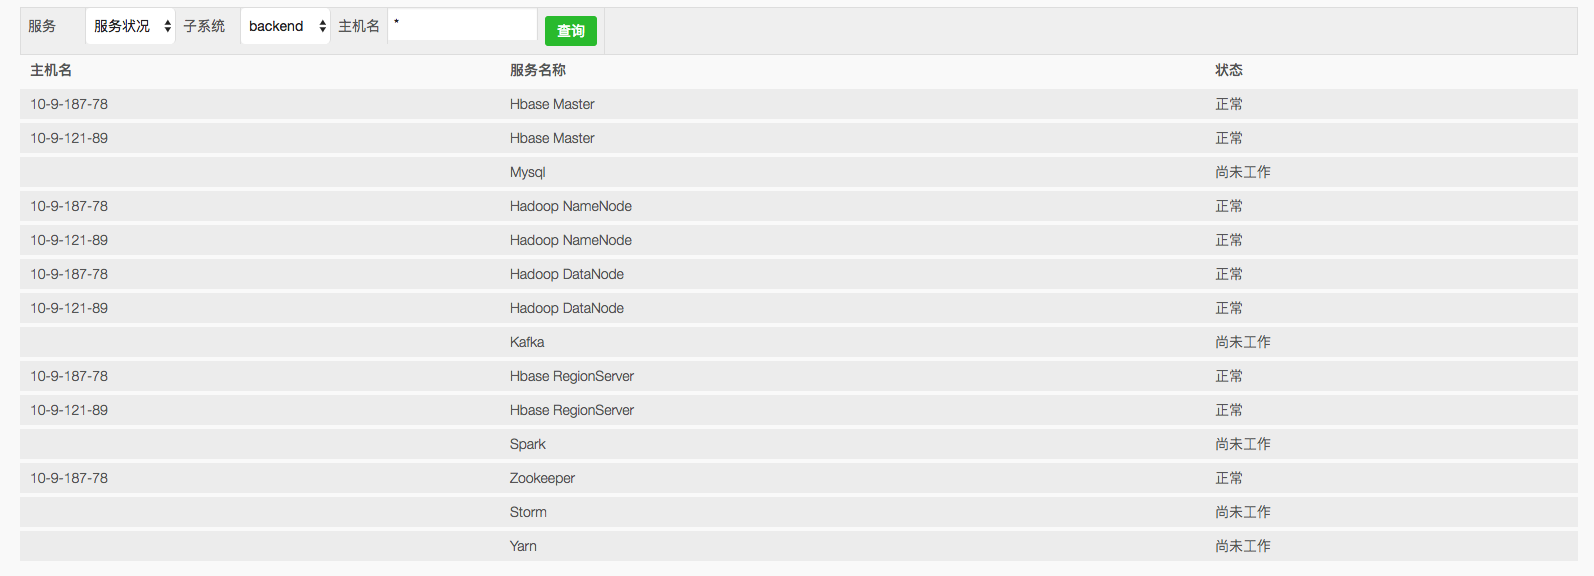
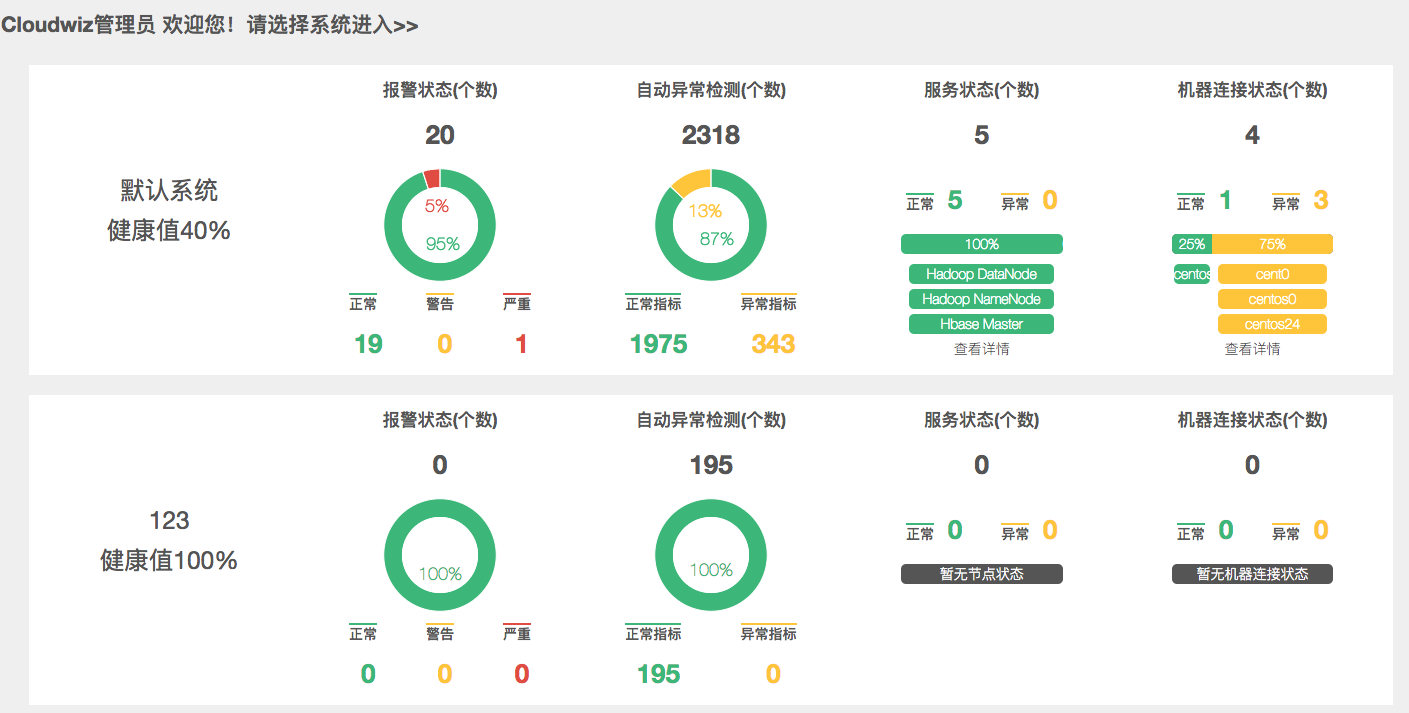
Updates part4/images/p4_2.png
Auto commit by GitBook Editor

diff --git a/part4/ui_summary.md b/part4/ui_summary.md
@@ -6,9 +6,12 @@
 
 输入用户名和密码进行登录![](/part4/images/p4_1.png)
 
-## 2.**服务状态**
+## 2.**高管驾驶舱**
 
-服务状态页面显示系统各个节点和服务的总体运行状况![](/part4/images/p4_2.png)
+高管驾驶舱概述当前不同系统的状态![](/part4/images/p4_2.png)
+
+## 3.**系统总览**
+系统总览页面展示反应当前系统健康状况的关键指标信息
 
 
 
